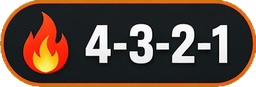
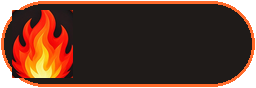
Polish: HP/status chrome matches status indicators sheet + Batch 4 HUD glyphs
Playtest feedback (Giovani): HP bars and status indicators far from target
look shown in status-indicators-sheet. Rebuild to match sheet spec.

Production Batch 4 HUD glyphs integrated:
- icon-catapult.png (warm, left of catapult HP)
- icon-wall.png (cool, left of wall HP)
- badge-upkeep-caution.png (infantry + amber ! for low upkeep)
- badge-upkeep-mark.png (! overlay only if composing)
- pill-fire-turns.png (digit-free; live Flutter countdown overlay)

HP Strip (matches status indicators sheet):
1. Beveled dark frame (#0B1020 bg, #2c3543 border, shadow)
2. Icon + HP bar side-by-side:
   - Catapult icon (40px square) LEFT of catapult bar (warm amber)
   - Wall icon (40px square) LEFT of wall bar (cool teal)
3. HP bar (52px height):
   - Dark panel2 background
   - Gradient fill (dim→color) based on percentage
   - White centered current/max text ON the bar (20px/16px, shadow)
   - Small label top-left corner (9px, 60% opacity)
4. Status badges ON the relevant bar (right side):
   - Fire badge + countdown (DoT queue) on BURNING bar only
   - Infantry badge + stack count (×1/×2) on WALL bar (Art Bible §8)
   - Dark background (70% black), colored border, white text
   - Fire uses ember #FF6B2C reserved for active fire

Bug fixes:
- Infantry moved from catapult to wall bar (was incorrectly showing on catapult)
- Fire DoT shows on whichever bar is burning (catapultFire vs gateFire)
- Statuses sit ON the HP bar, not loose Wrap below label

Layout:
[…]

diff --git a/lib/ui/screens/battle_screen.dart b/lib/ui/screens/battle_screen.dart
@@ -123,7 +123,7 @@ class _BattleScreenState extends State<BattleScreen> {
                       max: state.catapultMax,
                       isDefender: false,
                       fire: state.catapultFire,
-                      infantry: state.infantry,
+                      // Infantry pressures wall, not catapult
                     ),
                   ),
                   const SizedBox(width: 12),
@@ -135,6 +135,8 @@ class _BattleScreenState extends State<BattleScreen> {
                       max: state.wallMax,
                       isDefender: true,
                       fire: state.gateFire,
+                      // Infantry pressures the wall (Art Bible §8)
+                      infantry: state.infantry,
                     ),
                   ),
                 ],
@@ -221,124 +223,213 @@ class _BattleScreenState extends State<BattleScreen> {
     final isLow = percentage <= 0.25;
     final color = isDefender ? SiegeTheme.defender : SiegeTheme.attacker;
     final dimColor = isDefender ? SiegeTheme.defenderDim : SiegeTheme.attackerDim;
+    
+    // Icon asset based on which bar this is
+    final iconAsset = isDefender 
+        ? 'assets/art/production/icons/icon-wall.png'
+        : 'assets/art/production/icons/icon-catapult.png';
 
-    return Container(
-      padding: const EdgeInsets.all(10.0),
-      decoration: BoxDecoration(
-        color: SiegeTheme.panel.withOpacity(0.85),
-        border: Border.all(
-          color: isDefender ? SiegeTheme.defender.withOpacity(0.5) : SiegeTheme.attacker.withOpacity(0.5),
-          width: 1.5,
-        ),
-        borderRadius: BorderRadius.circular(10),
-      ),
-      child: Column(
-        mainAxisSize: MainAxisSize.min,
-        crossAxisAlignment: CrossAxisAlignment.start,
-        children: [
-          Row(
-            mainAxisAlignment: MainAxisAlignment.spaceBetween,
-            children: [
-              Text(
-                label.toUpperCase(),
-                style: TextStyle(
-                  fontFamily: 'Oswald',
-                  fontSize: 11,
-                  fontWeight: FontWeight.w600,
-                  letterSpacing: 0.44,
-                  color: SiegeTheme.muted,
-                ),
-              ),
-              Row(
-                children: [
-                  Text(
-                    '$current',
-                    style: TextStyle(
-                      fontFamily: 'Oswald',
-                      fontSize: 20,
-                      fontWeight: FontWeight.w700,
-                      color: isLow ? SiegeTheme.danger : color,
-                      height: 1.0,
-                    ),
-                  ),
-                  Text(
-                    '/$max',
-                    style: TextStyle(
-                      fontFamily: 'Oswald',
-                      fontSize: 11,
-                      fontWeight: FontWeight.w400,
-                      color: SiegeTheme.muted,
-                    ),
-                  ),
-                ],
+    return Row(
+      children: [
+        // HUD icon (catapult LEFT warm / wall RIGHT cool)
+        Container(
+          width: 40,
+          height: 52,
+          decoration: BoxDecoration(
+            color: SiegeTheme.background,
+            border: Border.all(
+              color: SiegeTheme.line.withOpacity(0.6),
+              width: 2,
+            ),
+            borderRadius: BorderRadius.circular(8),
+            boxShadow: [
+              BoxShadow(
+                color: Colors.black.withOpacity(0.3),
+                blurRadius: 4,
+                offset: const Offset(0, 2),
               ),
             ],
           ),
-          const SizedBox(height: 4),
-          // HP bar
-          Container(
-            height: 12,
+          child: Center(
+            child: Image.asset(
+              iconAsset,
+              width: 28,
+              height: 28,
+              fit: BoxFit.contain,
+              color: color.withOpacity(0.8),
+            ),
+          ),
+        ),
+        const SizedBox(width: 6),
+        // HP strip
+        Expanded(
+          child: Container(
+            height: 52,
             decoration: BoxDecoration(
+              // Beveled dark frame
               color: SiegeTheme.background,
-              borderRadius: BorderRadius.circular(6),
+              border: Border.all(
+                color: SiegeTheme.line.withOpacity(0.6),
+                width: 2,
+              ),
+              borderRadius: BorderRadius.circular(8),
+              boxShadow: [
+                BoxShadow(
+                  color: Colors.black.withOpacity(0.3),
+                  blurRadius: 4,
+                  offset: const Offset(0, 2),
+                ),
+              ],
             ),
             child: ClipRRect(
               borderRadius: BorderRadius.circular(6),
-              child: FractionallySizedBox(
-                alignment: Alignment.centerLeft,
-                widthFactor: percentage,
-                child: Container(
-                  decoration: BoxDecoration(
-                    gradient: LinearGradient(
-                      colors: [dimColor, color],
+              child: Stack(
+                children: [
+                  // Background
+                  Positioned.fill(
+                    child: Container(
+                      color: SiegeTheme.panel2,
                     ),
                   ),
-                ),
-              ),
-            ),
-          ),
-          // Status indicators
-          if (fire.isNotEmpty || (infantry != null && infantry > 0))
-            Padding(
-              padding: const EdgeInsets.only(top: 6.0),
-              child: Wrap(
-                spacing: 6,
-                runSpacing: 4,
-                children: [
-                  if (fire.isNotEmpty)
-                    _buildCompactStatus(
-                      'assets/art/ui/status_fire.png',
-                      fire.join('·'),
-                      SiegeTheme.danger,
+                  // Filled HP bar
+                  Positioned.fill(
+                    child: FractionallySizedBox(
+                      alignment: Alignment.centerLeft,
+                      widthFactor: percentage,
+                      child: Container(
+                        decoration: BoxDecoration(
+                          gradient: LinearGradient(
+                            colors: [dimColor, color],
+                          ),
+                        ),
+                      ),
                     ),
-                  if (infantry != null && infantry > 0)
-                    _buildCompactStatus(
-                      'assets/art/ui/status_infantry.png',
-                      '×$infantry',
-                      SiegeTheme.attacker,
+                  ),
+                  // White centered current/max text ON the bar
+                  Positioned.fill(
+                    child: Center(
+                      child: Row(
+                        mainAxisSize: MainAxisSize.min,
+                        children: [
+                          Text(
+                            '$current',
+                            style: TextStyle(
+                              fontFamily: 'Oswald',
+                              fontSize: 20,
+                              fontWeight: FontWeight.w700,
+                              color: Colors.white,
+                              shadows: [
+                                Shadow(
+                                  color: Colors.black.withOpacity(0.8),
+                                  blurRadius: 3,
+                                  offset: const Offset(0, 1),
+                                ),
+                              ],
+                            ),
+                          ),
+                          Text(
+                            ' / ',
+                            style: TextStyle(
+                              fontFamily: 'Oswald',
+                              fontSize: 14,
+                              fontWeight: FontWeight.w400,
+                              color: Colors.white.withOpacity(0.7),
+                              shadows: [
+                                Shadow(
+                                  color: Colors.black.withOpacity(0.8),
+                                  blurRadius: 3,
+                                  offset: const Offset(0, 1),
+                                ),
+                              ],
+                            ),
+                          ),
+                          Text(
+                            '$max',
+                            style: TextStyle(
+                              fontFamily: 'Oswald',
+                              fontSize: 16,
+                              fontWeight: FontWeight.w500,
+                              color: Colors.white.withOpacity(0.85),
+                              shadows: [
+                                Shadow(
+                                  color: Colors.black.withOpacity(0.8),
+                                  blurRadius: 3,
+                                  offset: const Offset(0, 1),
+                                ),
+                              ],
+                            ),
+                          ),
+                        ],
+                      ),
                     ),
+                  ),
+                  // Status badges ON the bar (right side)
+                  if (fire.isNotEmpty || (infantry != null && infantry > 0))
+                    Positioned(
+                      right: 8,
+                      top: 0,
+                      bottom: 0,
+                      child: Row(
+                        mainAxisSize: MainAxisSize.min,
+                        children: [
+                          if (fire.isNotEmpty)
+                            _buildBarBadge(
+                              'assets/art/production/badges/badge-fire.png',
+                              fire.join('→'),
+                              SiegeTheme.danger,
+                            ),
+                          if (fire.isNotEmpty && infantry != null && infantry > 0)
+                            const SizedBox(width: 6),
+                          if (infantry != null && infantry > 0)
+                            _buildBarBadge(
+                              'assets/art/production/badges/badge-infantry.png',
+                              '×$infantry',
+                              SiegeTheme.attacker,
+                            ),
+                        ],
+                      ),
+                    ),
+                  // Label (top-left corner, small)
+                  Positioned(
+                    left: 8,
+                    top: 4,
+                    child: Text(
+                      label.toUpperCase(),
+                      style: TextStyle(
+                        fontFamily: 'Oswald',
+                        fontSize: 9,
+                        fontWeight: FontWeight.w600,
+                        letterSpacing: 0.36,
+                        color: Colors.white.withOpacity(0.6),
+                        shadows: [
+                          Shadow(
+                            color: Colors.black.withOpacity(0.8),
+                            blurRadius: 2,
+                            offset: const Offset(0, 1),
+                          ),
+                        ],
+                      ),
+                    ),
+                  ),
                 ],
               ),
             ),
-        ],
-      ),
+          ),
+        ),
+      ],
     );
   }
 
-  Widget _buildCompactStatus(String assetPath, String text, Color color) {
-    // Use production badges - prefer showing live Flutter numbers over baked pill text
-    String badgeAsset = assetPath;
-    if (assetPath.contains('status_fire')) {
-      badgeAsset = 'assets/art/production/badges/badge-fire.png';
-    } else if (assetPath.contains('status_infantry')) {
-      badgeAsset = 'assets/art/production/badges/badge-infantry.png';
-    }
-    
+  Widget _buildBarBadge(String badgeAsset, String text, Color color) {
+    // Badge that sits ON the HP bar
     return Container(
-      padding: const EdgeInsets.symmetric(horizontal: 6, vertical: 2),
+      padding: const EdgeInsets.symmetric(horizontal: 6, vertical: 3),
       decoration: BoxDecoration(
-        color: SiegeTheme.background.withOpacity(0.7),
-        border: Border.all(color: color.withOpacity(0.5), width: 1),
+        color: Colors.black.withOpacity(0.7),
+        border: Border.all(
+          color: color.withOpacity(0.8),
+          width: 1.5,
+        ),
         borderRadius: BorderRadius.circular(6),
       ),
       child: Row(
@@ -346,18 +437,19 @@ class _BattleScreenState extends State<BattleScreen> {
         children: [
           Image.asset(
             badgeAsset,
-            width: 14,
-            height: 14,
+            width: 16,
+            height: 16,
             fit: BoxFit.contain,
           ),
-          const SizedBox(width: 3),
+          const SizedBox(width: 4),
           Text(
             text,
             style: TextStyle(
               fontFamily: 'Oswald',
-              fontSize: 11,
+              fontSize: 12,
               fontWeight: FontWeight.w700,
-              color: color,
+              color: Colors.white,
+              height: 1.0,
             ),
           ),
         ],
